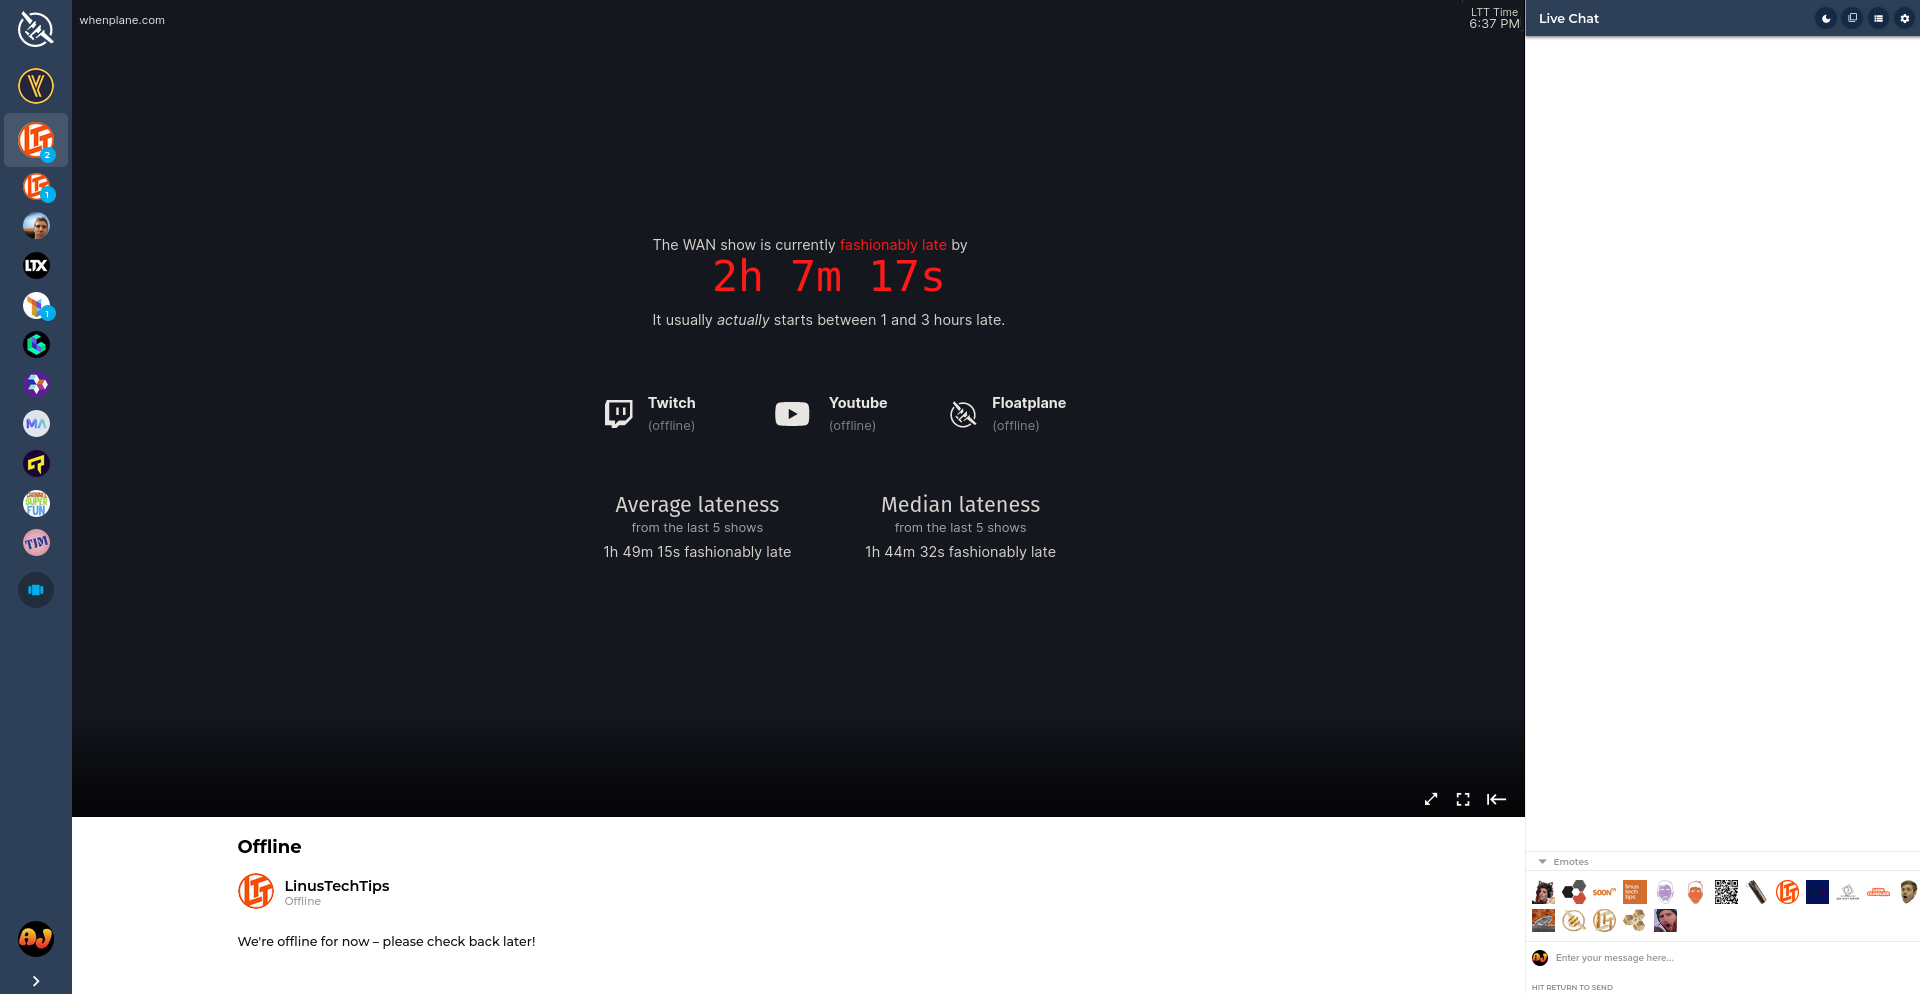
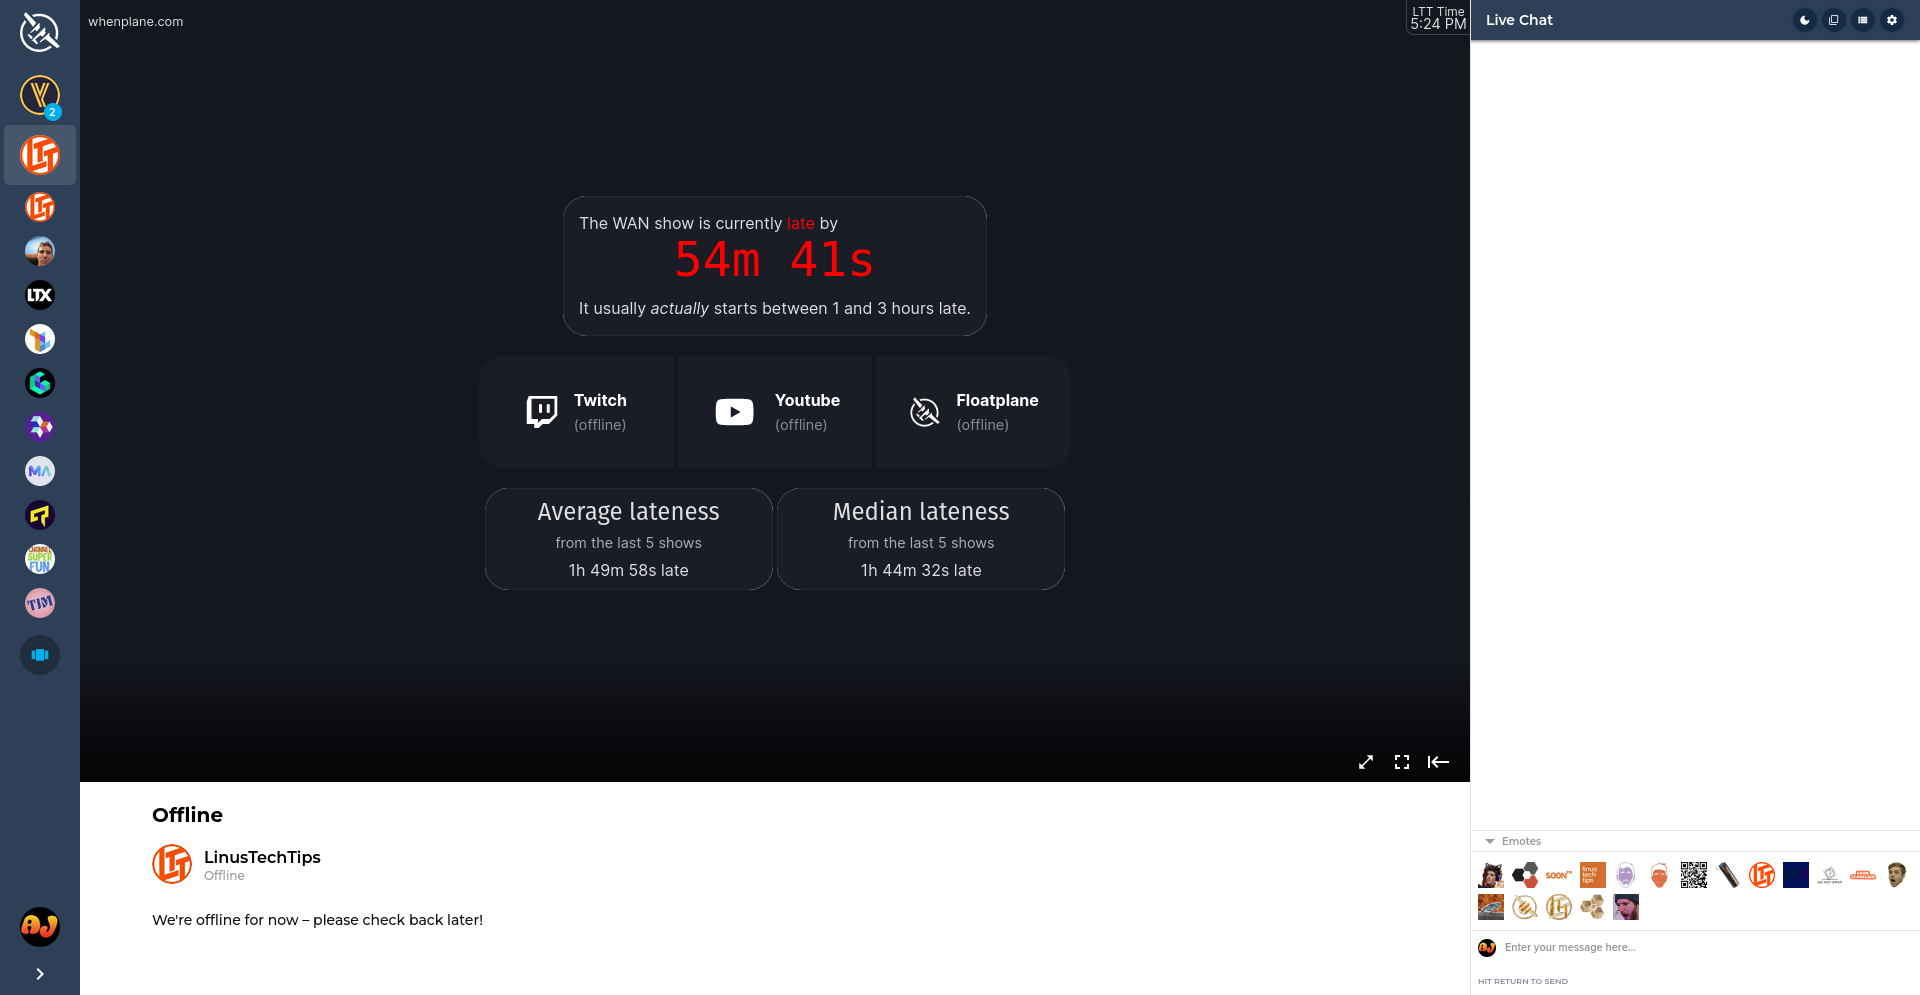
update extension screenshots

diff --git a/src/routes/extension/+page.svelte b/src/routes/extension/+page.svelte
@@ -59,6 +59,8 @@
     <br>
     <br>
     <ClickableImage src="/extension/screenshots/late.png" style="width: 25em;" width="1920" height="994"/>
+    <ClickableImage src="/extension/screenshots/late-filled.png" style="width: 25em;" width="1920" height="994"/>
+
     <ClickableImage src="/extension/screenshots/after.png" style="width: 25em;" width="1920" height="994"/>
     <ClickableImage src="/extension/screenshots/filled.png" style="width: 25em;" width="1920" height="994"/>
     <br>
